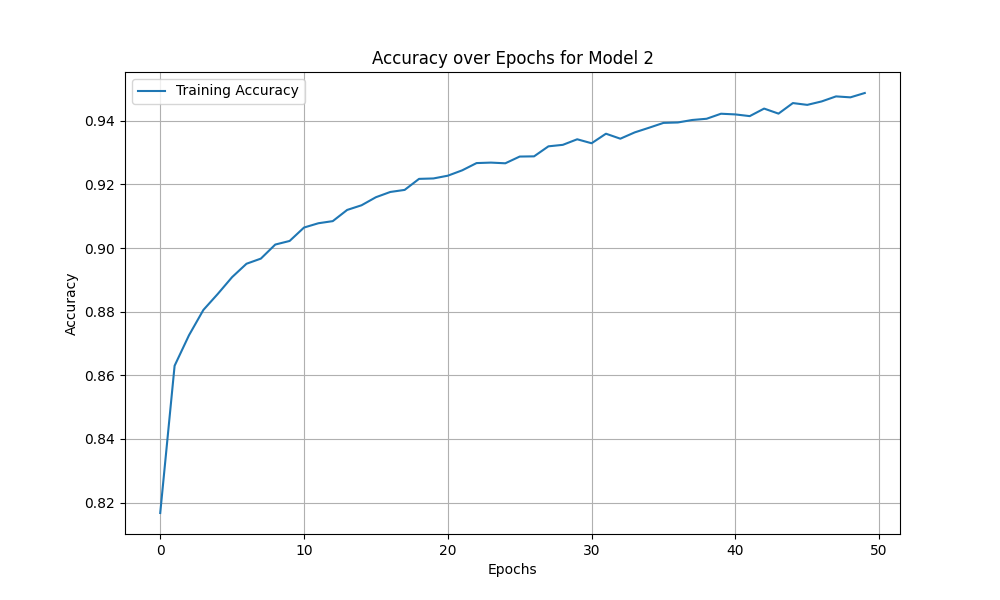
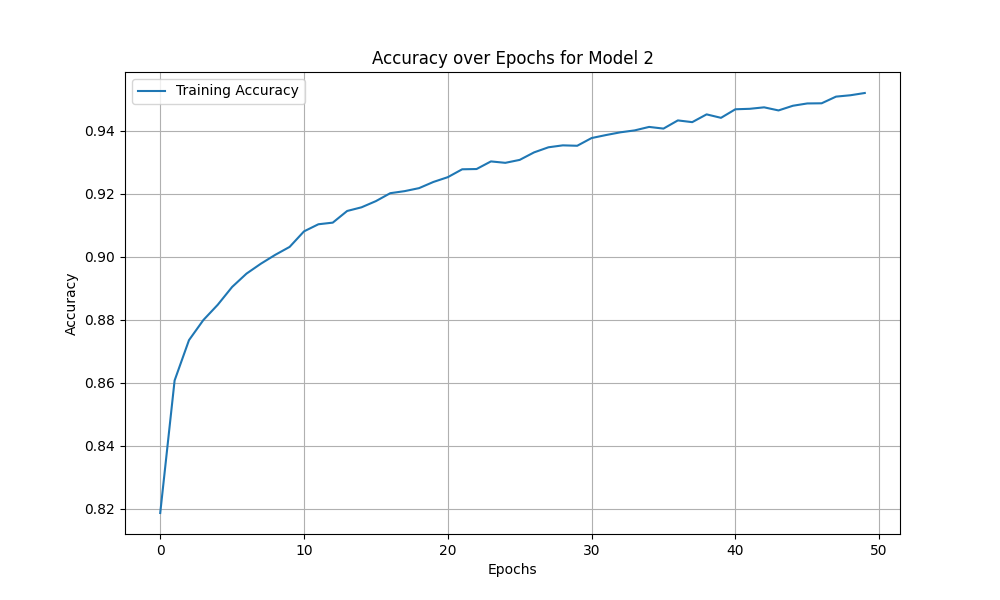
one hot encoding

diff --git a/util.py b/util.py
@@ -15,6 +15,9 @@ def load_data(data_dir="./tensorflow_datasets"):
 def preprocess(image, label):
     image = tf.cast(image, tf.float32) / 255.0
     
+    # One-hot encode the label
+    label = tf.one_hot(label, depth=10)
+    
     return image, label
 
 # Normalize and preprocess the dataset, including the train-validation split
@@ -57,7 +60,7 @@ def plot_confusion_matrix_heatmap(model, ds_test, class_names, model_name):
     # Gather true labels and predicted labels
     for images, labels in ds_test:
         predictions = model.predict(images)
-        y_true.extend(labels.numpy())  # Actual labels
+        y_true.extend(np.argmax(labels.numpy(), axis=1))  # Get original labels from one-hot
         y_pred.extend(np.argmax(predictions, axis=1))  # Predicted labels
 
     # Create confusion matrix

diff --git a/model.py b/model.py
@@ -1,5 +1,5 @@
 import tensorflow as tf
-from tensorflow.keras import layers, models, regularizers
+from tensorflow.keras import layers, models, regularizers # type: ignore
 
 def build_model(layers_units, activation, optimizer='adam', learning_rate=0.001, regularizer=None):
     model = models.Sequential()
@@ -20,6 +20,6 @@ def build_model(layers_units, activation, optimizer='adam', learning_rate=0.001,
 
     # Compile the model with the Adam optimizer and specified learning rate
     model.compile(optimizer=tf.keras.optimizers.Adam(learning_rate=learning_rate),
-                  loss='sparse_categorical_crossentropy',
+                  loss='categorical_crossentropy',
                   metrics=['accuracy'])
     return model
